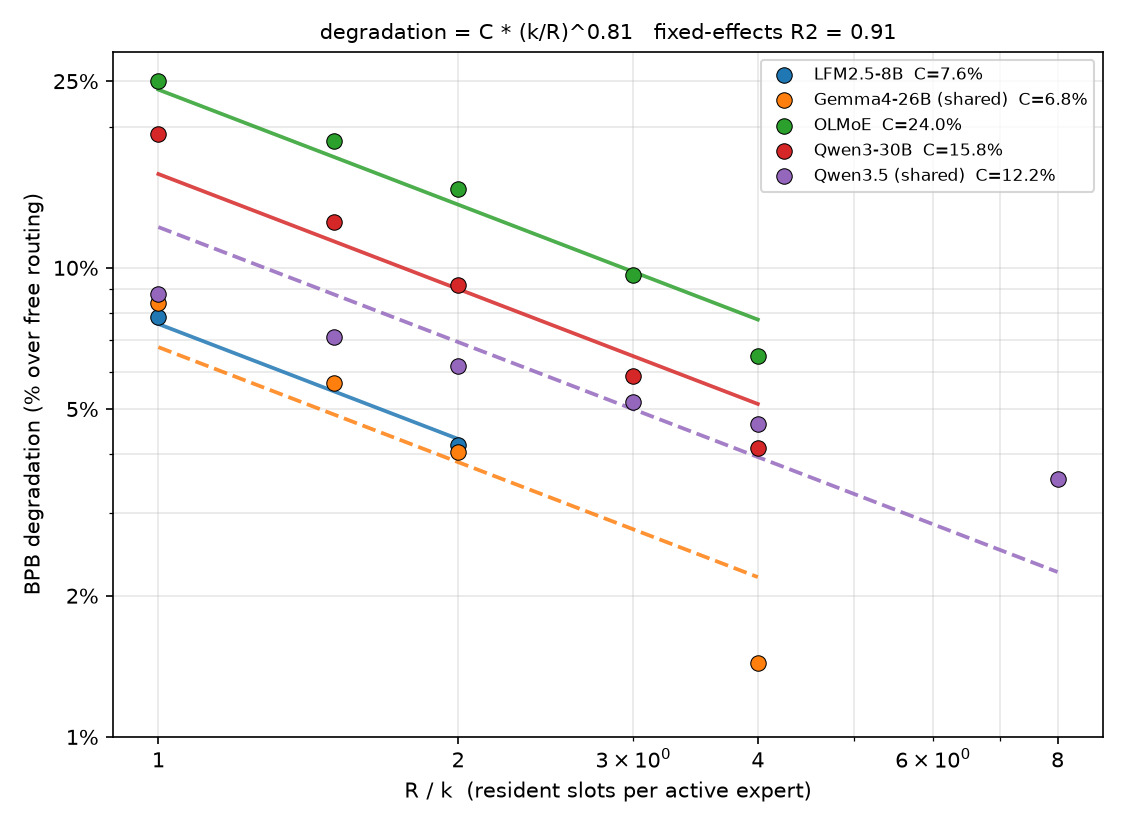
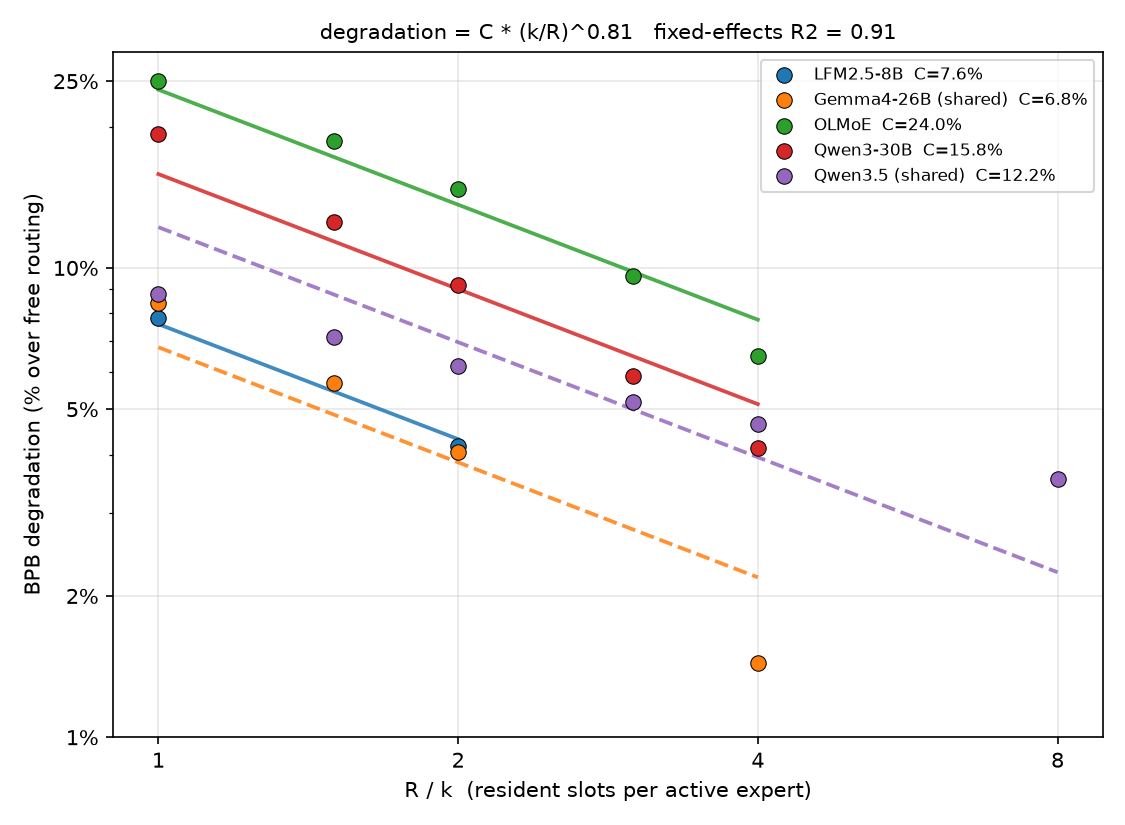
Figures: suppress log-scale minor tick labels (clean 8/16/32 axis)

Changed region(s): [[0.4356, 0.9091, 0.7156, 0.9697], [0.7778, 0.9091, 0.8711, 0.9394], [0.0622, 0.8788, 0.0933, 0.9091]]

diff --git a/analysis/ple/plot_scaling.py b/analysis/ple/plot_scaling.py
@@ -15,6 +15,7 @@ import sys
 import numpy as np
 import matplotlib
 matplotlib.use("Agg")
+from matplotlib.ticker import NullFormatter, NullLocator
 import matplotlib.pyplot as plt
 
 sys.path.insert(0, os.path.dirname(os.path.dirname(os.path.abspath(__file__))))
@@ -89,7 +90,10 @@ def figure1():
     ax.set_ylabel("BPB degradation (% over free routing)")
     ax.set_title(f"degradation = C * (k/R)^{-b[-1]:.2f}   fixed-effects R2 = {r2:.2f}",
                  fontsize=10)
-    ax.grid(alpha=0.3, which="both"); ax.legend(fontsize=8)
+    ax.xaxis.set_minor_formatter(NullFormatter())
+    ax.xaxis.set_minor_locator(NullLocator())
+    ax.yaxis.set_minor_formatter(NullFormatter())
+    ax.grid(alpha=0.3, which="major"); ax.legend(fontsize=8)
     fig.tight_layout()
     fig.savefig(os.path.join(OUT, "damage_law.png"), dpi=150)
 
@@ -164,7 +168,10 @@ def figure2():
     ax.set_ylabel("downstream accuracy degradation (% of free)")
     ax.set_title(f"Downstream cost of residency at fixed memory budgets - {n} cells, "
                  f"7 models, 5 labs", fontsize=10)
-    ax.grid(alpha=0.3, which="both")
+    ax.xaxis.set_minor_formatter(NullFormatter())
+    ax.xaxis.set_minor_locator(NullLocator())
+    ax.yaxis.set_minor_formatter(NullFormatter())
+    ax.grid(alpha=0.3, which="major")
     fig.tight_layout()
     fig.savefig(os.path.join(OUT, "downstream_scaling.png"), dpi=150, bbox_inches="tight")
 
